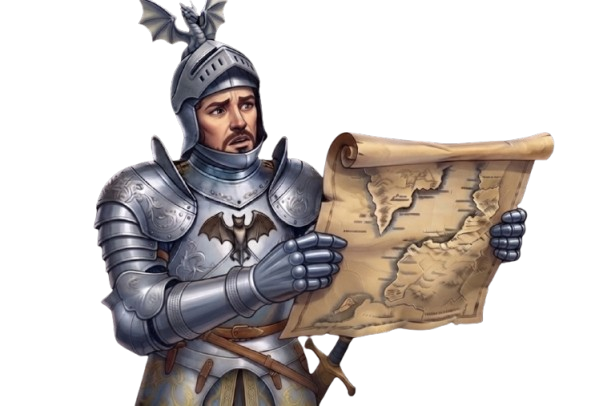
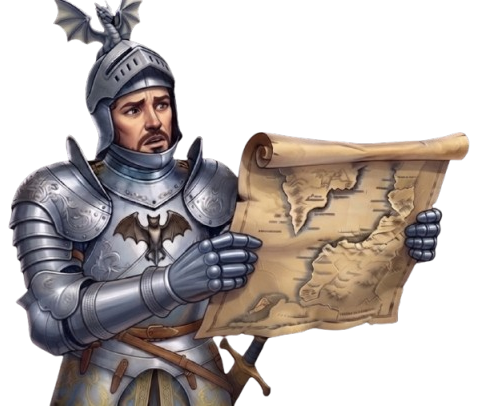
fix(video-intro): actualizar jaime_mapa_perdido.png + CACHE_VERSION v-video-intro-jul08b

diff --git a/sw.js b/sw.js
@@ -86,7 +86,7 @@ const APP_SHELL = [
 // Así, cualquier cambio real de shell (HTML/JS/CSS/manifest/íconos) actualiza
 // la versión de caché automáticamente en pre-commit y en dev:watch.
 // El navegador detecta el cambio byte-a-byte y re-registra el SW automáticamente.
-const CACHE_VERSION = 'v-video-intro-jul08';
+const CACHE_VERSION = 'v-video-intro-jul08b';
 const IS_DEV = self.location.hostname === 'localhost' || self.location.hostname === '127.0.0.1';
 const CACHE_NAME = `vvguides-shell-${CACHE_VERSION}`;
 const MEDIA_CACHE_NAME = 'vvguides-media-v1';

diff --git a/docs/GUIA-COMPLETA.md b/docs/GUIA-COMPLETA.md
@@ -4343,7 +4343,7 @@ El SW no interviene en la comunicación postMessage entre componentes. Gestiona:
 
 - Caché Network-First del App Shell (HTML/JS/CSS/manifest)
 - Media (audios, vídeos, imágenes de aventuras) **nunca cacheado** — siempre desde red
-- `CACHE_VERSION` se actualiza en cada commit (valor actual: `'v-video-intro-jul08'`). El sistema de auto-generación por SHA-256 vía `tools/build-sw.js` está descrito en los comentarios del SW pero el archivo no existe todavía.
+- `CACHE_VERSION` se actualiza en cada commit (valor actual: `'v-video-intro-jul08b'`). El sistema de auto-generación por SHA-256 vía `tools/build-sw.js` está descrito en los comentarios del SW pero el archivo no existe todavía.
 
 No emite ni recibe mensajes postMessage. No tiene handlers de mensajería del bus.
 
@@ -6870,7 +6870,7 @@ navigator.serviceWorker.addEventListener('message', event => {
 
 #### CACHE_VERSION y actualización automática
 
-`CACHE_VERSION` (actualmente `'v-video-intro-jul08'`, línea 89 de `sw.js`) debe cambiarse en cada deploy para forzar que el navegador descarte la caché antigua. El encabezado de `sw.js` describe un sistema automático basado en SHA-256 (`tools/build-sw.js`) que calcularía la versión a partir del contenido de los ficheros de APP_SHELL, pero ese script no está implementado — el directorio `tools/` contiene scripts de traducción e inventario, pero no `build-sw.js`.
+`CACHE_VERSION` (actualmente `'v-video-intro-jul08b'`, línea 89 de `sw.js`) debe cambiarse en cada deploy para forzar que el navegador descarte la caché antigua. El encabezado de `sw.js` describe un sistema automático basado en SHA-256 (`tools/build-sw.js`) que calcularía la versión a partir del contenido de los ficheros de APP_SHELL, pero ese script no está implementado — el directorio `tools/` contiene scripts de traducción e inventario, pero no `build-sw.js`.
 
 **Detección de actualizaciones:** `registration.update()` se llama en `visibilitychange → hidden`. Esto asegura que el browser comprueba actualizaciones del SW cada vez que el usuario cambia de app. En dev (`IS_DEV = true`, hostname `localhost`/`127.0.0.1`), todos los fetches del SW van directamente a red sin caché, garantizando que el desarrollador siempre ve la versión más reciente.
 
@@ -7432,7 +7432,7 @@ Cada vez que se despliega una nueva versión, actualizar `CACHE_VERSION` en `sw.
 
 ```javascript
 // sw.js línea 89 — actualizar en cada despliegue
-const CACHE_VERSION = 'v-video-intro-jul08'; // ← cambiar a un identificador de la versión (p.ej. 'v-1.0.0')
+const CACHE_VERSION = 'v-video-intro-jul08b'; // ← cambiar a un identificador de la versión (p.ej. 'v-1.0.0')
 const CACHE_NAME = `vvguides-shell-${CACHE_VERSION}`;
 ```
 
@@ -10904,7 +10904,7 @@ Timeout configurado en **30 000 ms** (30 s) para `crearPromiseHijoListo`. Los di
 **Archivo:** `sw.js` línea 89
 
 ```js
-const CACHE_VERSION = 'v-video-intro-jul08';
+const CACHE_VERSION = 'v-video-intro-jul08b';
 ```
 
 El valor se actualiza manualmente en cada commit que requiere invalidar la caché del shell. El directorio `tools/` existe pero `tools/build-sw.js` (auto-generación por SHA-256 mencionada en el comentario de `sw.js`) **no está implementado** — es aspiracional.
